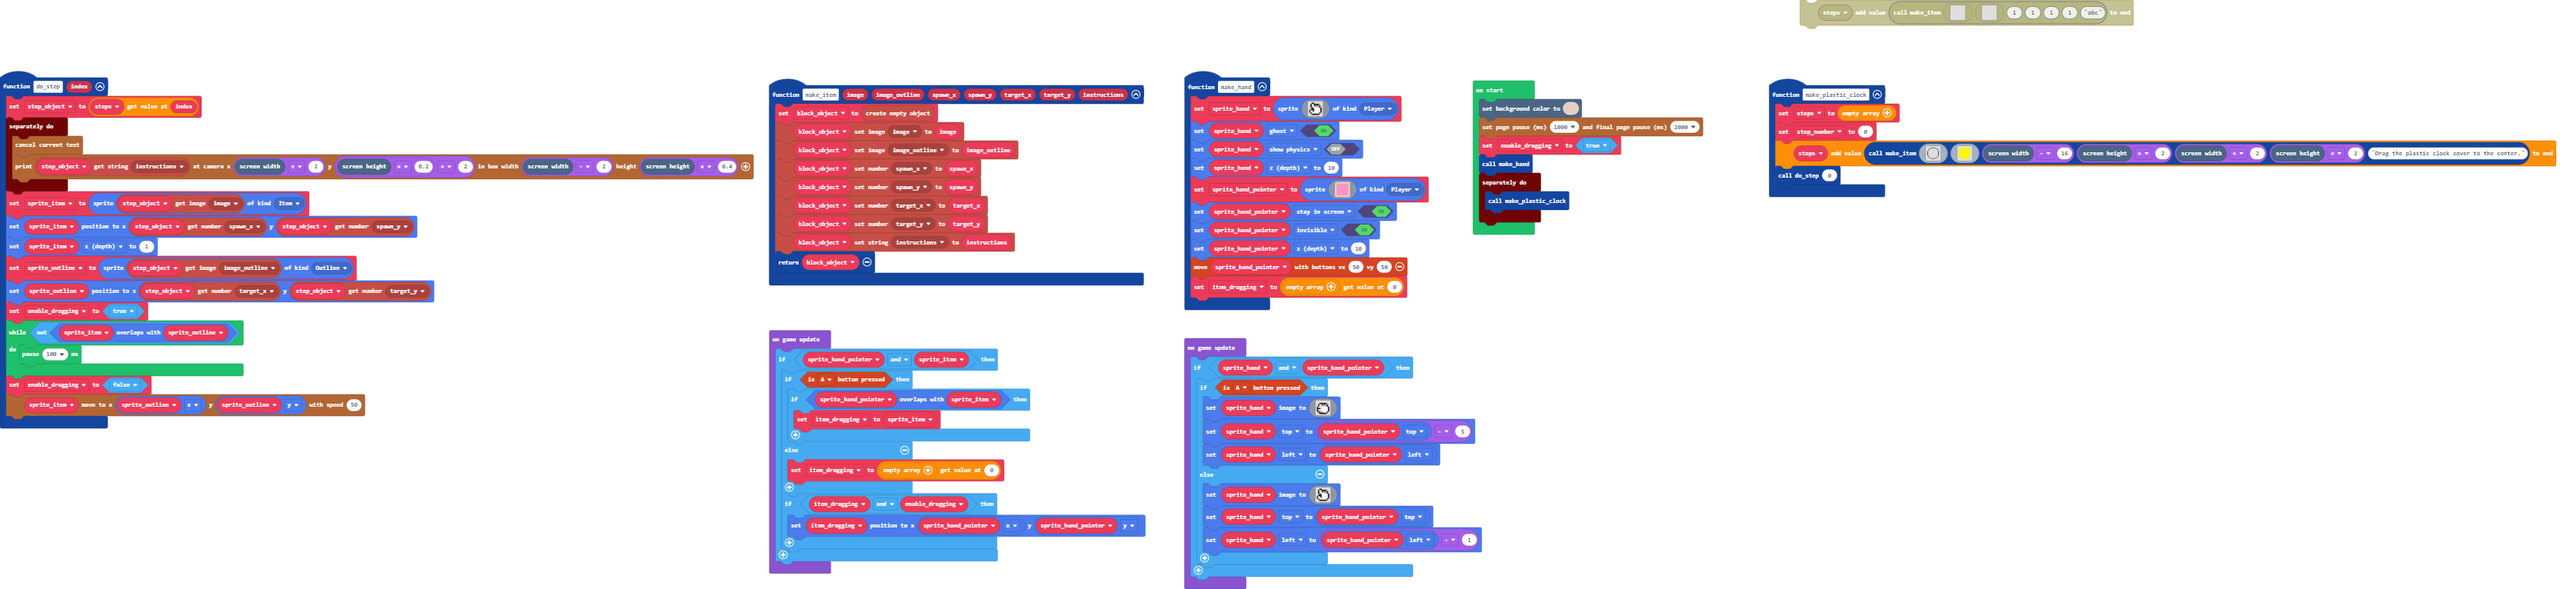
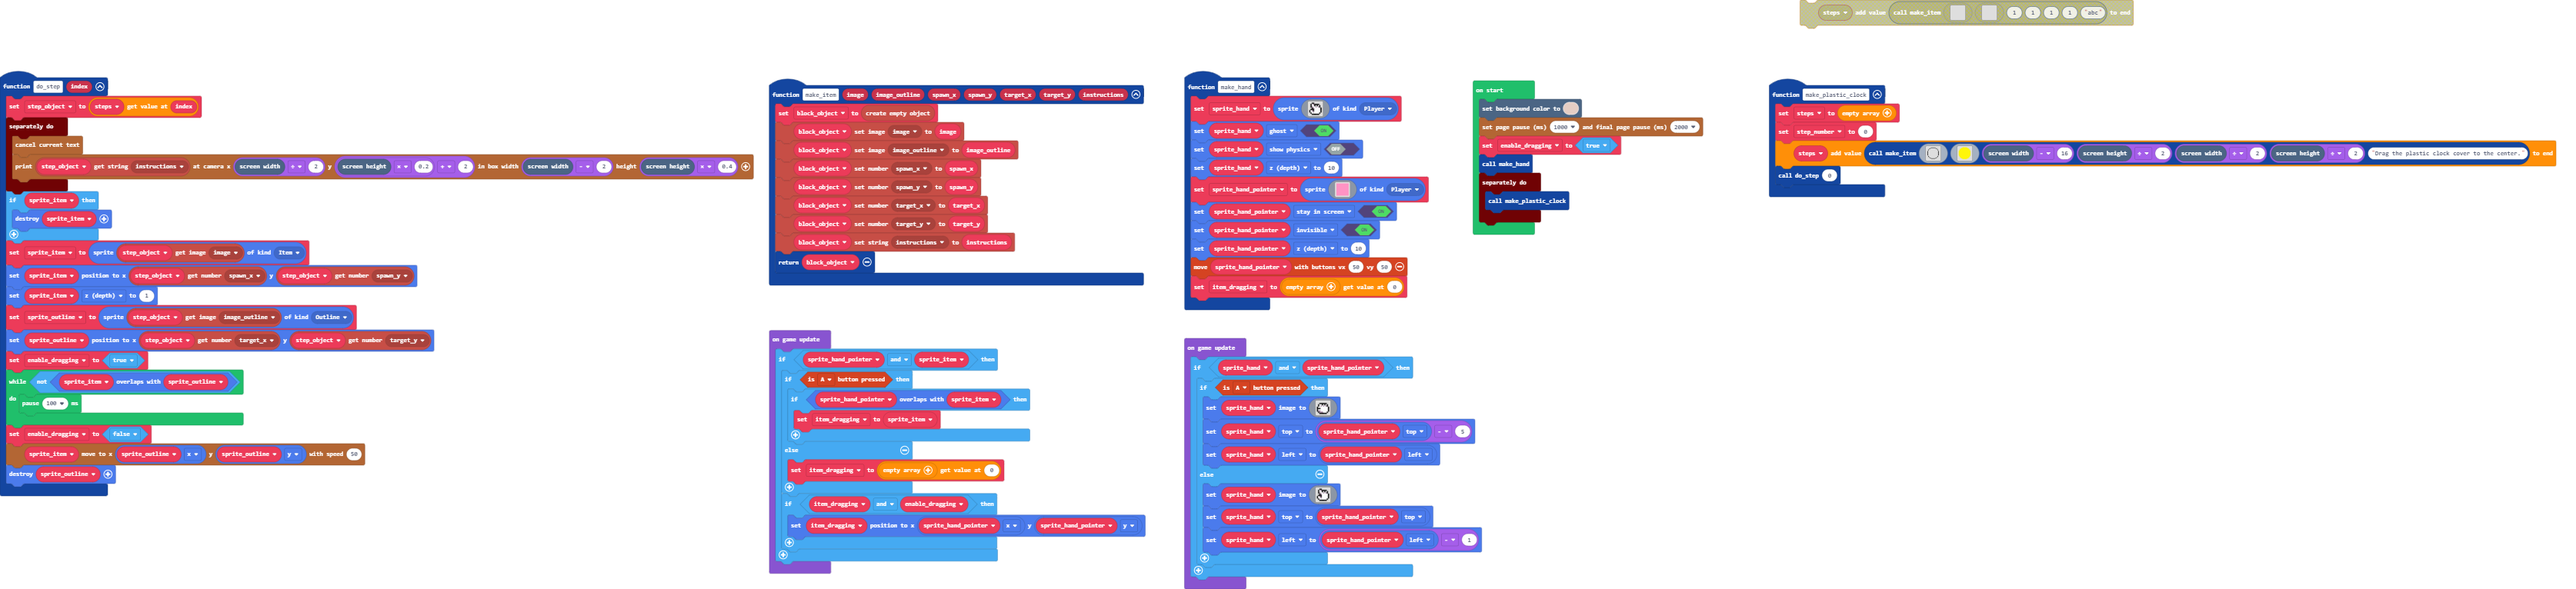
Destroy outline after dragging

Changed region(s): [[0.0, 0.3003, 0.1864, 0.8407]]

diff --git a/main.ts b/main.ts
@@ -21,6 +21,9 @@ function do_step (index: number) {
         story.clearAllText()
         story.printDialog(blockObject.getStringProperty(step_object, StrProp.instructions), scene.screenWidth() / 2, scene.screenHeight() * 0.2 + 2, scene.screenHeight() * 0.4, scene.screenWidth() - 2)
     })
+    if (sprite_item) {
+        sprite_item.destroy()
+    }
     sprite_item = sprites.create(blockObject.getImageProperty(step_object, ImageProp.image), SpriteKind.Item)
     sprite_item.setPosition(blockObject.getNumberProperty(step_object, NumProp.spawn_x), blockObject.getNumberProperty(step_object, NumProp.spawn_y))
     sprite_item.z = 1
@@ -32,6 +35,7 @@ function do_step (index: number) {
     }
     enable_dragging = false
     story.spriteMoveToLocation(sprite_item, sprite_outline.x, sprite_outline.y, 50)
+    sprite_outline.destroy()
 }
 function make_hand () {
     sprite_hand = sprites.create(assets.image`hand`, SpriteKind.Player)
